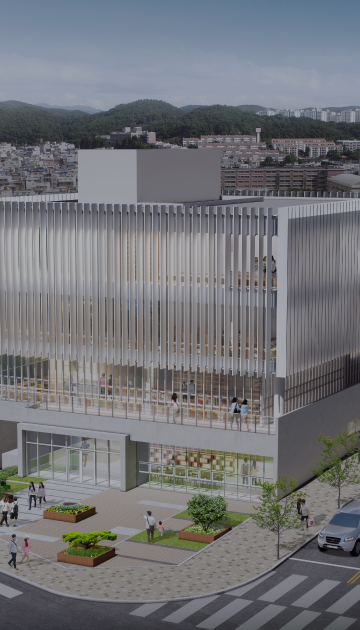
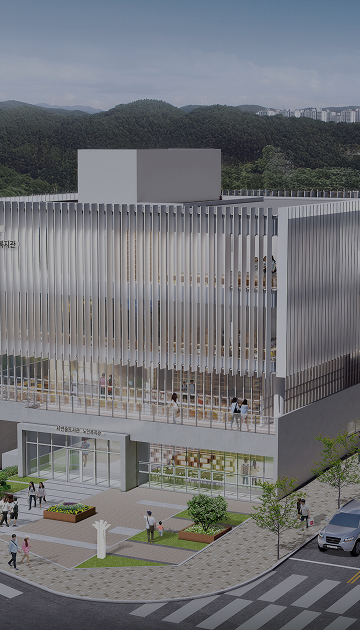
Feat : 서변숲도서관 리소스파일 커밋

diff --git a/src/main/webapp/resources/homepage/buksb/css/main0.css b/src/main/webapp/resources/homepage/buksb/css/main0.css
@@ -1,5 +1,5 @@
 #main0 {
-  background: url('../img/section0-bg-01.jpg') no-repeat center top;
+  background: url('../img/section0-bg-01.png') no-repeat center top;
   background-size: cover;
   display: flex;
   justify-content: center;
